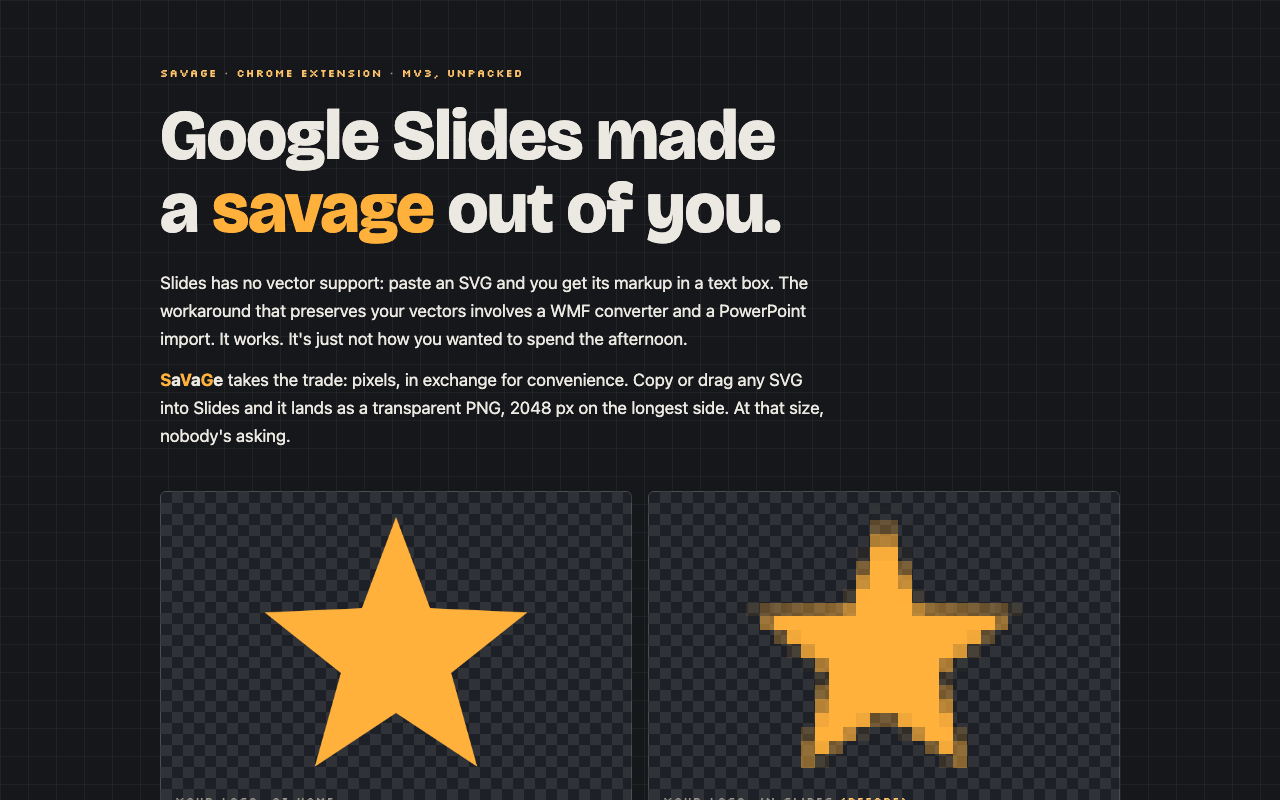
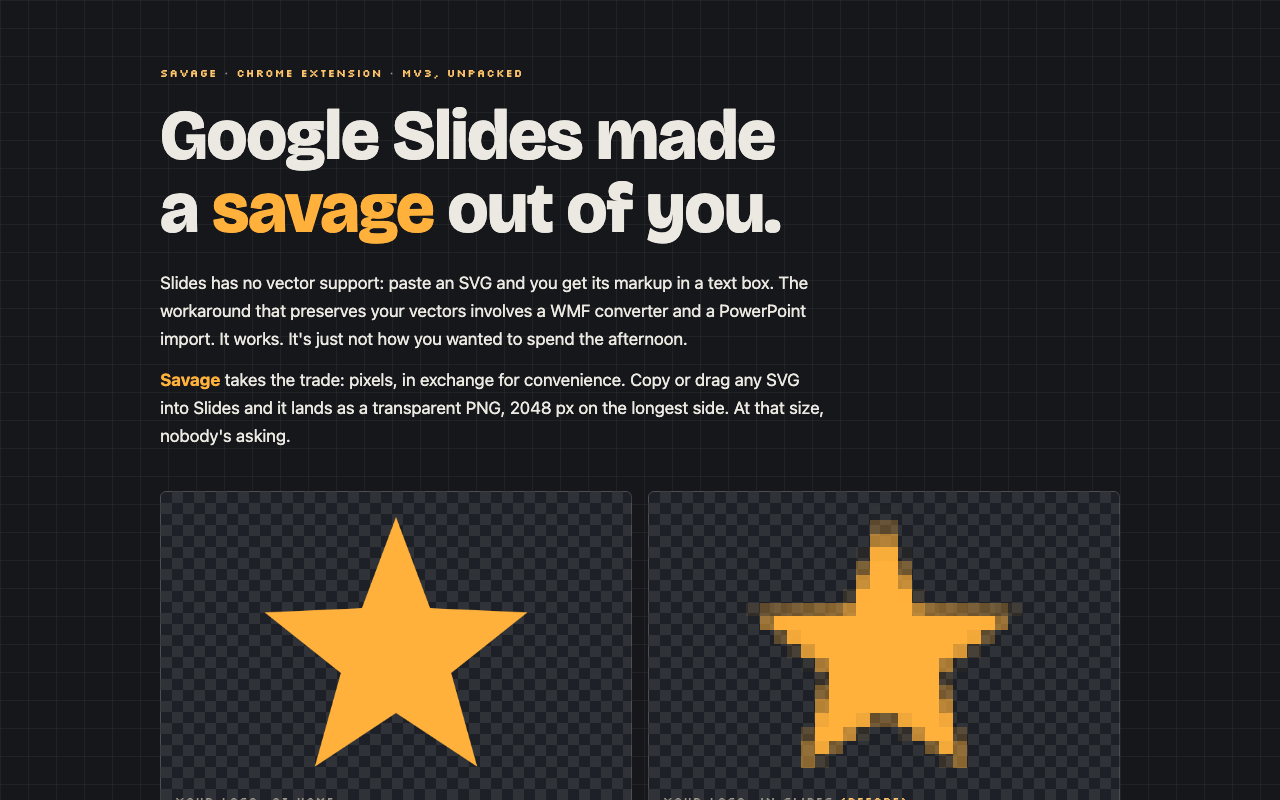
style: rename SaVaGe to Savage, regular case

Changed region(s): [[0.125, 0.4688, 0.625, 0.5]]

diff --git a/docs/index.html b/docs/index.html
@@ -3,8 +3,8 @@
 <head>
 <meta charset="utf-8">
 <meta name="viewport" content="width=device-width, initial-scale=1">
-<meta name="description" content="SaVaGe is a Chrome extension that converts SVGs to high-res transparent PNGs on their way into Google Slides.">
-<title>SaVaGe: Convert SVGs to PNGs for Google Slides</title>
+<meta name="description" content="Savage is a Chrome extension that converts SVGs to high-res transparent PNGs on their way into Google Slides.">
+<title>Savage: Convert SVGs to PNGs for Google Slides</title>
 <style>
   @font-face {
     font-family: 'Bricolage';
@@ -109,7 +109,7 @@
     margin: 0 0 12px;
     font-size: 1.075rem;
   }
-  .lede b .sv, .brand .sv { color: var(--accent); }
+  .brand { color: var(--accent); }
   .muted { color: var(--muted); }
 
   /* ---- demo ---- */
@@ -240,7 +240,7 @@
 <body>
 
 <div class="wrap">
-  <p class="px eyebrow">SaVaGe <span class="dot">·</span> Chrome extension <span class="dot">·</span> MV3, unpacked</p>
+  <p class="px eyebrow">Savage <span class="dot">·</span> Chrome extension <span class="dot">·</span> MV3, unpacked</p>
 
   <h1>Google Slides made a <em>savage</em> out of you.</h1>
 
@@ -250,7 +250,7 @@
     PowerPoint import. It works. It's just not how you wanted to spend the afternoon.
   </p>
   <p class="lede">
-    <b class="brand"><span class="sv">S</span>a<span class="sv">V</span>a<span class="sv">G</span>e</b>
+    <b class="brand">Savage</b>
     takes the trade: pixels, in exchange for convenience. Copy or drag any SVG into
     Slides and it lands as a transparent PNG, 2048&nbsp;px on the longest side.
     At that size, nobody's asking.
@@ -267,7 +267,7 @@
     </figure>
   </div>
   <p class="demo-caption">
-    After SaVaGe both tiles look identical. 2048&nbsp;px on the longest side is the
+    After Savage both tiles look identical. 2048&nbsp;px on the longest side is the
     whole trick. The checkerboard stays checkerboard: backgrounds come out transparent.
   </p>
 
@@ -281,7 +281,7 @@
       </li>
       <li>
         <span class="n">2</span>
-        <span><b>SaVaGe converts on arrival.</b> The moment you land in Slides it spots the
+        <span><b>Savage converts on arrival.</b> The moment you land in Slides it spots the
         SVG and rasterizes it in-page: transparent PNG, aspect preserved, no server, no wait.</span>
       </li>
       <li>

diff --git a/docs/privacy.html b/docs/privacy.html
@@ -3,7 +3,7 @@
 <head>
 <meta charset="utf-8">
 <meta name="viewport" content="width=device-width, initial-scale=1">
-<title>SaVaGe Privacy Policy</title>
+<title>Savage Privacy Policy</title>
 <style>
   :root { --bg: #FAFAF7; --ink: #20242B; --muted: #6E6A5F; --accent: #9A6303; }
   @media (prefers-color-scheme: dark) {
@@ -23,14 +23,14 @@
 </head>
 <body>
 <div class="wrap">
-  <h1>SaVaGe Privacy Policy</h1>
+  <h1>Savage Privacy Policy</h1>
   <p class="muted">Last updated: 2026-07-22</p>
 
-  <p>SaVaGe converts SVGs into PNG images on their way into Google Slides.
+  <p>Savage converts SVGs into PNG images on their way into Google Slides.
   Everything happens locally in your browser.</p>
 
   <h2>Clipboard</h2>
-  <p>When a Google Slides tab gains focus (or you press Ctrl/Cmd there), SaVaGe
+  <p>When a Google Slides tab gains focus (or you press Ctrl/Cmd there), Savage
   reads your clipboard to check whether it holds an SVG. If it does, the SVG is
   converted locally and the clipboard is rewritten with the resulting PNG plus
   the original markup. Clipboard contents are processed in memory only, never
@@ -41,19 +41,19 @@
   Nothing else is stored.</p>
 
   <h2>Network</h2>
-  <p>SaVaGe makes no network requests, with one exception: when you drag an SVG
+  <p>Savage makes no network requests, with one exception: when you drag an SVG
   <em>image from another website</em> into Slides, the extension fetches that
   image's URL to get the SVG (for Wikipedia/Wikimedia pages this includes a
   MediaWiki API lookup to locate the file). Nothing about you or your documents
   is sent, only the request for the file you just dragged.</p>
 
   <h2>Optional permission</h2>
-  <p>By default SaVaGe has no access to websites' data. The optional "fetch from
+  <p>By default Savage has no access to websites' data. The optional "fetch from
   any site" setting grants host access solely so dragged-URL fetches work on
   sites that block cross-origin requests. It is off unless you enable it, and
   you can revoke it in the popup at any time.</p>
 
-  <h2>What SaVaGe does not do</h2>
+  <h2>What Savage does not do</h2>
   <ul>
     <li>No analytics, telemetry, or tracking of any kind</li>
     <li>No accounts, no server, no data collection</li>

diff --git a/sw.js b/sw.js
@@ -32,7 +32,7 @@ chrome.runtime.onMessage.addListener((msg, _sender, sendResponse) => {
       try {
         res = await fetch(url, { credentials: 'omit' });
       } catch (_) {
-        throw new Error('the site blocks cross-origin requests. Allow "any site" in the SaVaGe popup');
+        throw new Error('the site blocks cross-origin requests. Allow "any site" in the Savage popup');
       }
       if (!res.ok) throw new Error(`HTTP ${res.status}`);
       const type = res.headers.get('content-type') || '';

diff --git a/store/LISTING.md b/store/LISTING.md
@@ -5,7 +5,7 @@ Everything the dashboard asks for, in order. Upload `savage-<version>.zip`
 
 ## Basics
 
-- **Name:** SaVaGe
+- **Name:** Savage
 - **Short description** (≤132 chars):
   Convert SVGs to PNGs for Google Slides. Copy or drag SVGs in and they arrive as high-res transparent PNGs.
 - **Category:** Workflow & Planning (or Tools)
@@ -17,7 +17,7 @@ Everything the dashboard asks for, in order. Upload `savage-<version>.zip`
 
 Google Slides has no SVG support: paste one and you get markup in a text box.
 The vector-preserving workaround involves format converters and a PowerPoint
-import. SaVaGe takes the trade: pixels, in exchange for convenience.
+import. Savage takes the trade: pixels, in exchange for convenience.
 
 Copy an SVG anywhere (markup, a Figma "Copy as SVG", an SVG image) and paste
 into Slides: it lands as a sharp transparent PNG, 2048 px on the longest

diff --git a/README.md b/README.md
@@ -1,4 +1,4 @@
-# SaVaGe: Convert SVGs to PNGs for Google Slides
+# Savage: Convert SVGs to PNGs for Google Slides
 
 Google Slides can't paste or drop SVGs. This extension fixes that: copy an SVG
 anywhere (markup or image) or drag one into a slide, and it lands as a
@@ -13,7 +13,7 @@ locally and nothing leaves your machine.
 2. Open a Google Slides deck. The first conversion may trigger **one** clipboard
    permission prompt. Click Allow; it never asks again.
 
-SaVaGe requests no site access by default. Dragged web images are fetched under
+Savage requests no site access by default. Dragged web images are fetched under
 CORS (Wikipedia/Wikimedia work out of the box); for sites that block that,
 enable "fetch dragged SVGs from any site" in the toolbar popup.
 

diff --git a/SPEC.md b/SPEC.md
@@ -1,4 +1,4 @@
-# SaVaGe: Convert SVGs to PNGs for Google Slides (MVP Spec)
+# Savage: Convert SVGs to PNGs for Google Slides (MVP Spec)
 
 **Owner:** viz · **Last updated:** 2026-07-22 · **Status:** built and accepted (paste, drop, auto-place, config panel all verified live); doc reflects as-built behavior
 
